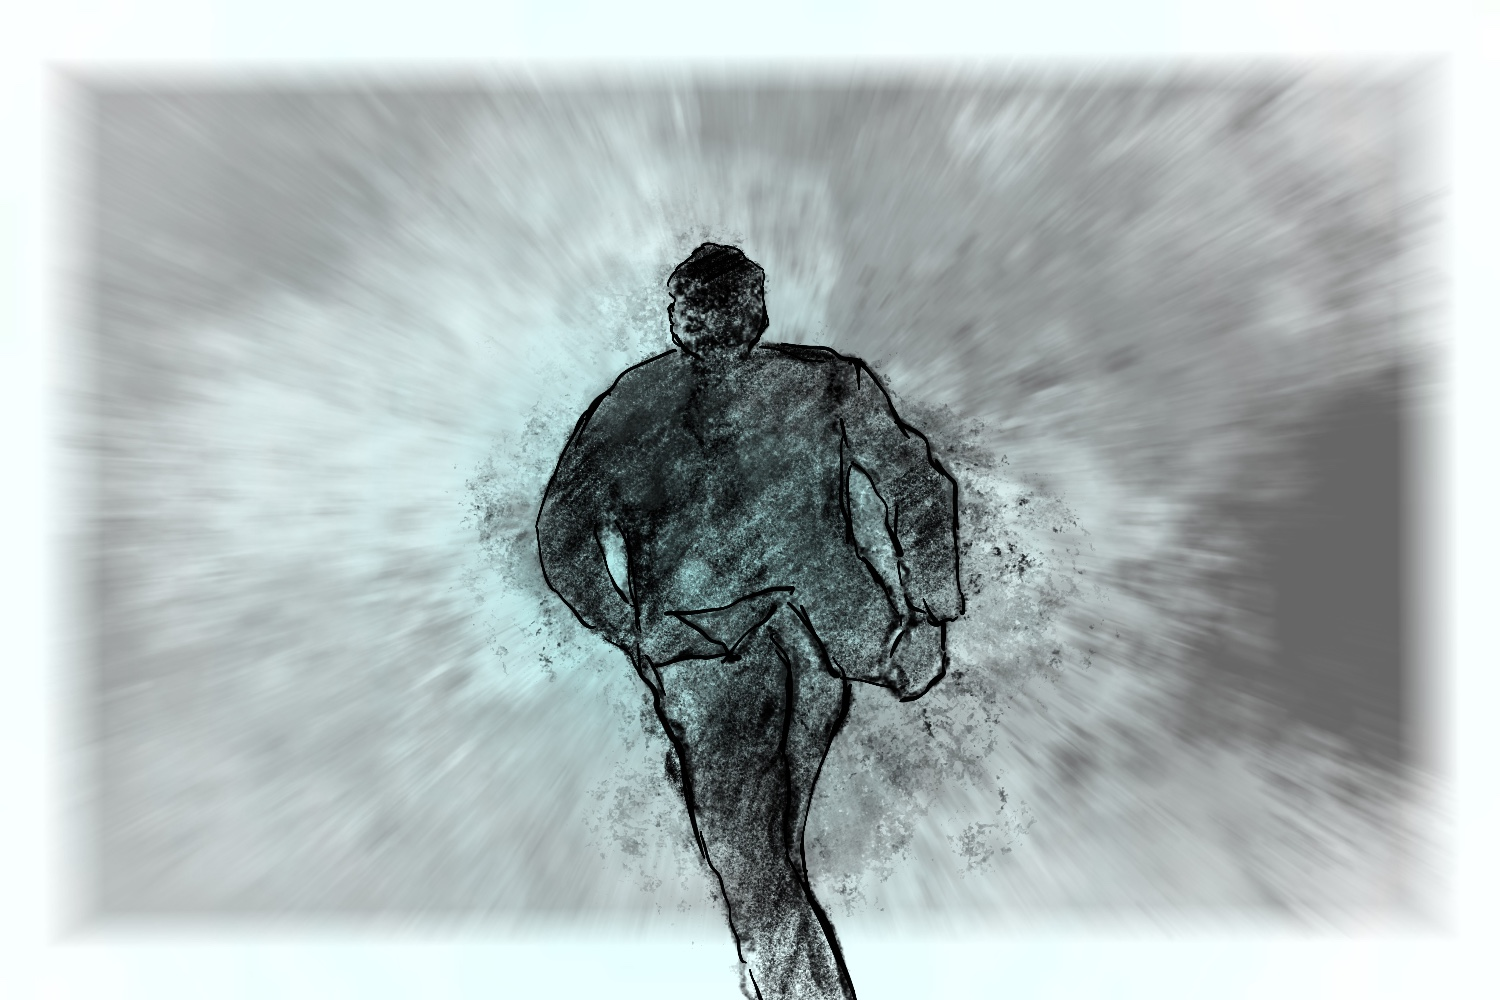
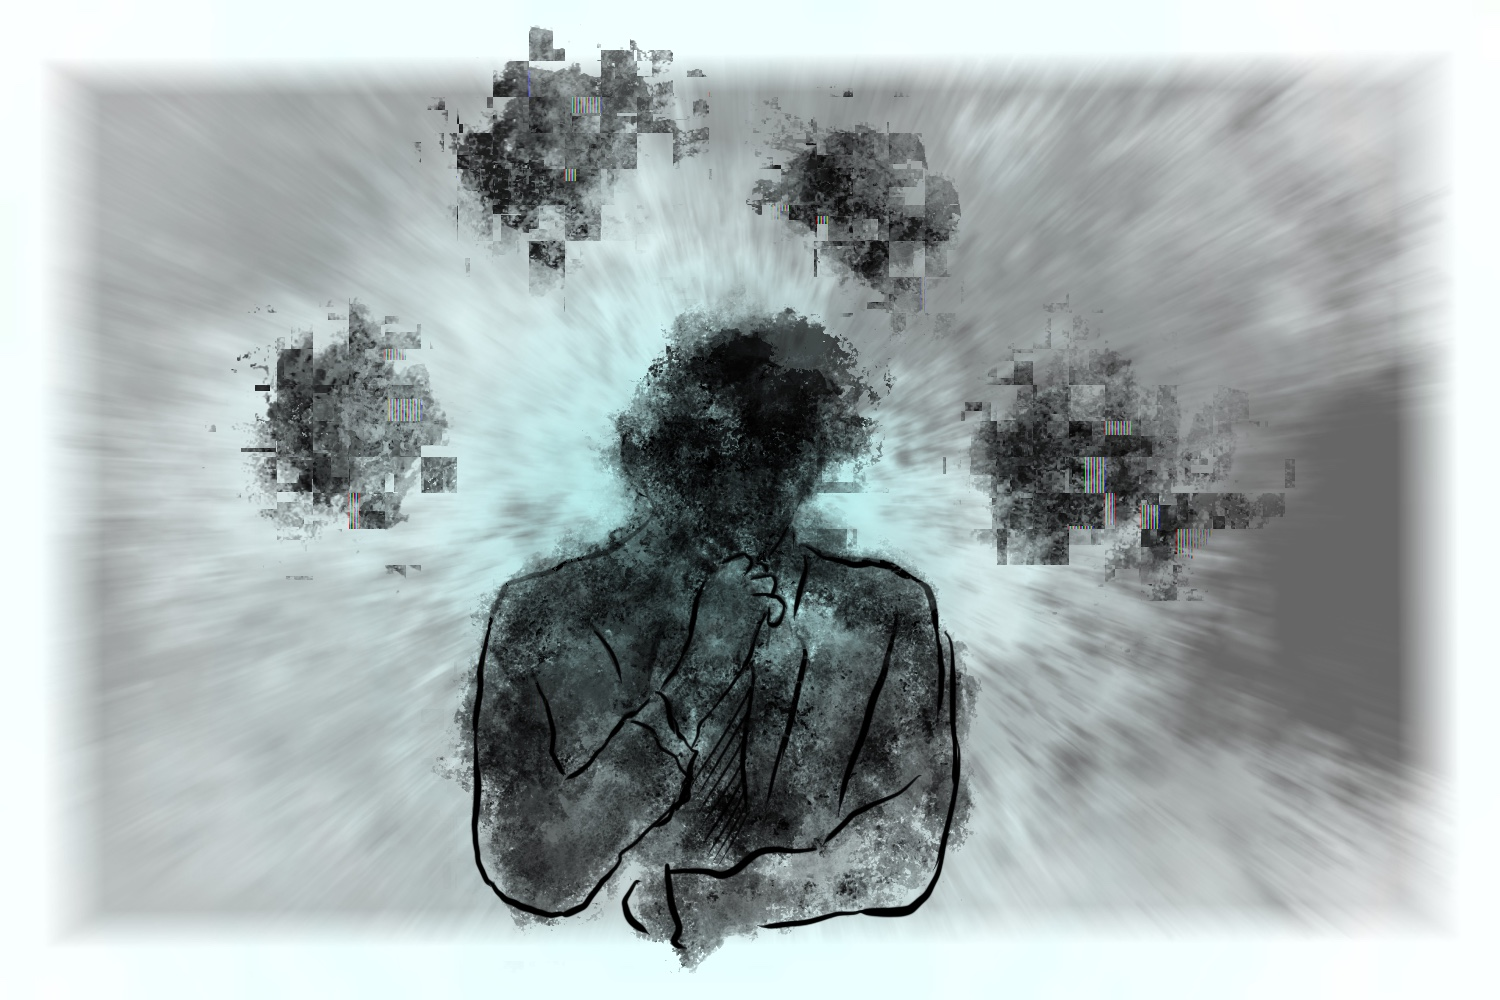
more picture and some audio

Changed region(s): [[0.1533, 0.124, 0.8587, 1.0], [0.276, 0.031, 0.4907, 0.279], [0.2453, 0.558, 0.276, 0.589]]

diff --git a/index.html b/index.html
@@ -69,23 +69,22 @@
 </div>
 
 <div class="w3-container" id="game">
-  <div class="w3-content" style="max-width:800px">
+  <div class="w3-content" style="max-width:750px">
     <h5 class="w3-center w3-padding-64"><span class="w3-tag w3-wide">GAME</span></h5>
-    <p>一個普通的演講者,一個普通的菜鳥職員,一次普通的會議,一個猝不及防的意
-外。</p>
-<p>兩個相交的故事線,將會如何交織成形?
-不同角色、不同立場的兩人,被扯後腿的人和扯別人後腿的人,面對這場意外,
-兩人會做何反應?
-面對陷入低潮的主人翁,小機器人又該怎麼辦?</p>
-遊戲中你將前後扮演演講者和菜鳥職員的角色,在劇情進行途中,你可以選擇不
-同的情緒狀態或回應,根據不同的選擇,劇情發展也會有所不同,面對主人翁失
-落的情緒,小機器人會怎麼承接這些負面能量呢?又會怎麼讓主人恢復笑容呢?
-接下來,邀請你按下按鍵,進入到這個普通到不能再普通的故事......</p>
+    <p>一個普通的演講者，一個普通的菜鳥職員，一次普通的會議，一個猝不及防的意外。</p>
+    <p>兩個相交的故事線，將會如何交織成形?
+    不同角色、不同立場的兩人，被扯後腿的人和扯別人後腿的人，面對這場意外，
+    兩人會做何反應？
+    面對陷入低潮的主人翁，小機器人又該怎麼辦？</p>
+    遊戲中你將前後扮演演講者和菜鳥職員的角色，在劇情進行途中，你可以選擇不
+    同的情緒狀態或回應，根據不同的選擇，劇情發展也會有所不同，面對主人翁失
+    落的情緒，小機器人會怎麼承接這些負面能量呢？又會怎麼讓主人恢復笑容呢？
+    接下來，邀請你按下按鍵，進入到這個普通到不能再普通的故事......</p>
     <!-- <div class="w3-panel w3-leftbar w3-light-grey">
       <p><i>"Use products from nature for what it's worth - but never too early, nor too late." Fresh is the new sweet.</i></p>
       <p>Chef, Coffeeist and Owner: Liam Brown</p>
     </div> -->
-    <img src="img/background/01.jpg" style="width: 100%; max-width:900px; align-self: center;" class="w3-margin-top w3-sand2 w3-padding-large" id="stage">
+    <img src="img/background/15.jpg" style="width: 100%; max-width:900px; align-self: center;" class="w3-margin-top w3-sand2 w3-padding-large" id="stage">
     <div id="text" class=" w3-sand2 my_center w3-margin-top" style="max-width:900px; height:72px;">
         <p id="paragraph1" style="padding: 8px;">我們來玩一個遊戲。</p>
     </div>
@@ -110,6 +109,9 @@
     <div id="button" class="my_center">
          <button id="btn3" class="w3-center w3-button w3-gray " style="width: 75%; display: none;" onclick="btnclick3(event)">Option3</button>
     </div>
+    <div id="button" class="my_center">
+         <button id="restart" class="w3-center w3-button w3-gray " style="width: 75%; display: none;" onclick="restart(event)">Restart</button>
+    </div>
     <!-- <p><strong>Opening hours:</strong> everyday from 6am to 5pm.</p>
     <p><strong>Address:</strong> 15 Adr street, 5015, NY</p> -->
   </div>
@@ -119,10 +121,10 @@
 <div class="w3-container" id="linebot">
   <div class="w3-content" style="max-width:800px">
     <h5 class="w3-center w3-padding-64"><span class="w3-tag w3-wide">LINEBOT</span></h5>
-    <p>在 Linebot 裡面,我們設計了一些日常對話,請使用者先輸入「今天過得還不錯,
-挺開心的」,在對話中,使用者有 2-3 個回復可以選擇,不同的選擇會開啟不同
-的對話線,Linebot 也會針對不同的選擇,採取不同的回覆方針,我們希望人工
-智慧能採取「有情商」的回覆方式,並透過對話策略轉化使用者的負面情緒。</p>
+    <p>在 Linebot 裡面,我們設計了一些日常對話,請使用者先輸入「今天過得還不錯，
+    挺開心的」，在對話中，使用者有 2-3 個回復可以選擇，不同的選擇會開啟不同
+    的對話線，Linebot也會針對不同的選擇，採取不同的回覆方針，我們希望人工
+    智慧能採取「有情商」的回覆方式，並透過對話策略轉化使用者的負面情緒。</p>
     <p>ID: @638jgwpn</p>
     <!-- <div class="w3-panel w3-leftbar w3-light-grey">
       <p><i>"Use products from nature for what it's worth - but never too early, nor too late." Fresh is the new sweet.</i></p>
@@ -220,6 +222,14 @@
 <!-- End page content -->
 </div>
 
+<audio id ="music01" preload="auto" src="audio/01下雨.mp3" loop>
+</audio>
+<audio id ="music02" preload="auto" src="audio/02舒緩音樂.mp3">
+</audio>
+<audio id ="music03" preload="auto" src="audio/03會議.mp3">
+</audio>
+<audio id ="music04" preload="auto" src="audio/04家中.mp3" loop>
+</audio>
 <!-- Footer -->
 <footer class="w3-center w3-black w3-padding-48 w3-large">
   <p>Chian-Chen</p>
